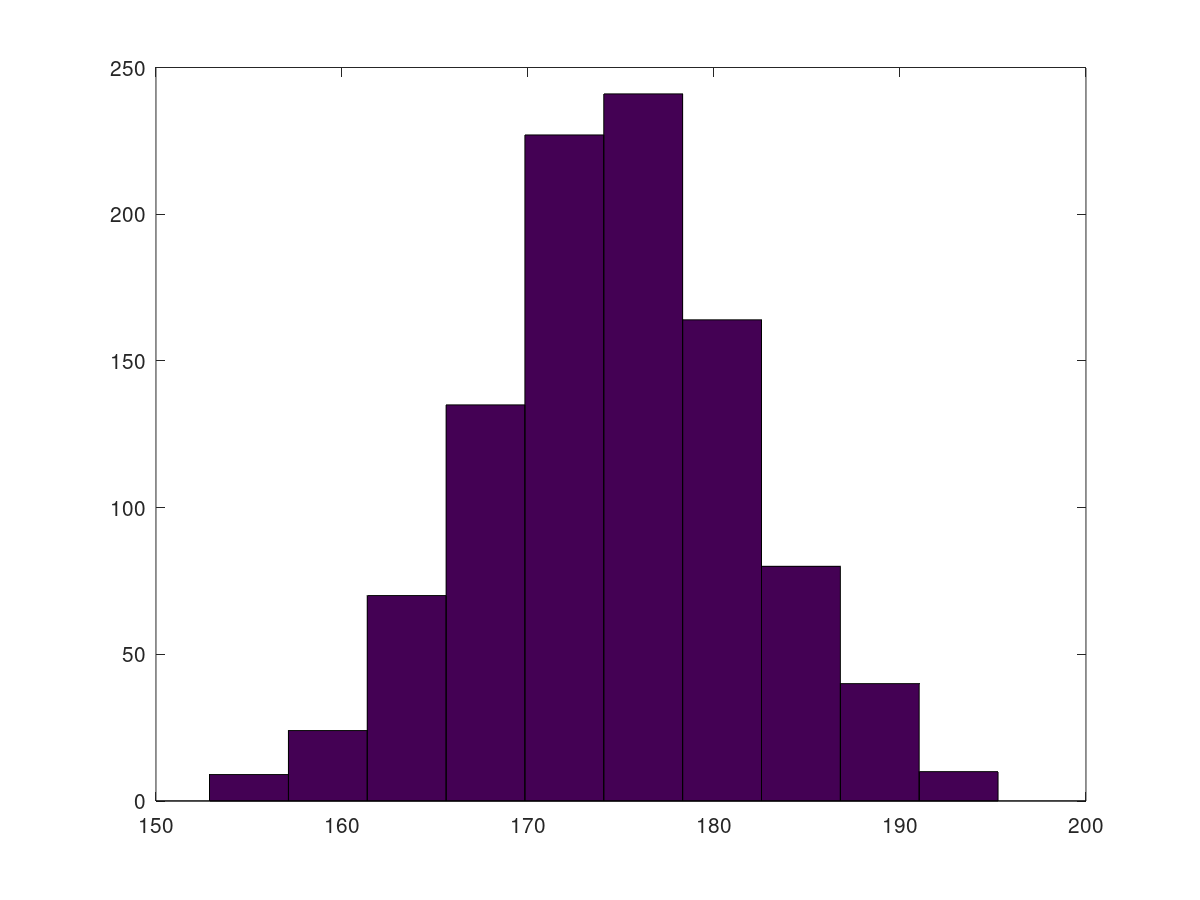
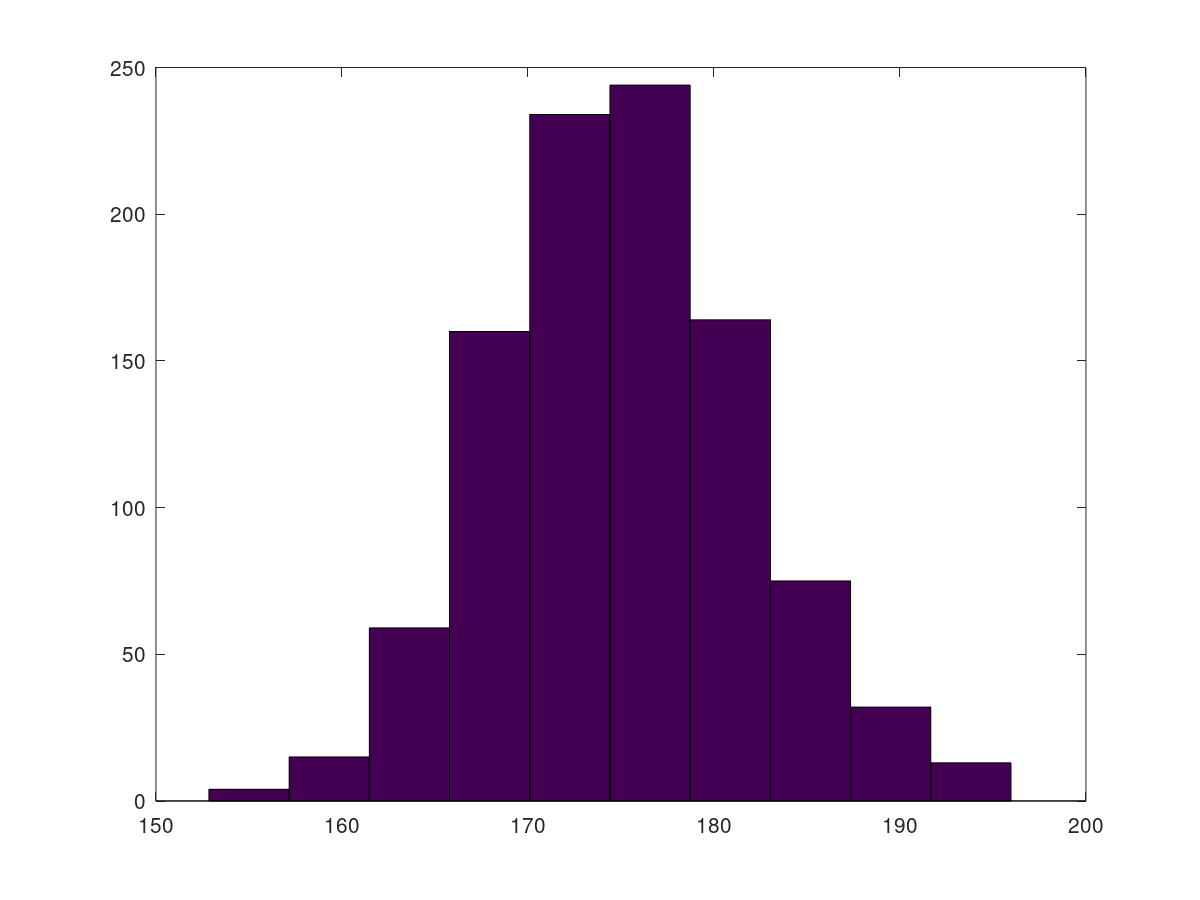
Add comments to Octave file

Changed region(s): [[0.1542, 0.0933, 0.5858, 0.9022], [0.6167, 0.3422, 0.8633, 0.9022]]

diff --git a/THE2/the2_code.m b/THE2/the2_code.m
@@ -1,21 +1,26 @@
 
+% Load statistics module for normal probability density function
 pkg load statistics;
 
+% Define constants
 N = 1000;
 mean = 175;
 std_dev = 7;
 
+% Generate heights as a column vector
 heights = randn(N, 1);
 heights *= std_dev;
 heights += mean;
 
-hist(heights);
-print("hist", "-dpng");
+% Create and print the histogram of heights
+hist(heights, 10);
+print("the2_hist", "-dpng");
 
+% Create and print the normal PDF's with various standard deviations
 x = 150:0.1:200;
 hold off;
 plot(x, normpdf(x, mean, 6), ";\\sigma = 6;");
 hold on;
 plot(x, normpdf(x, mean, 7), ";\\sigma = 7;");
 plot(x, normpdf(x, mean, 8), ";\\sigma = 8;");
-print("plot", "-dpng");
+print("the2_plot", "-dpng");
